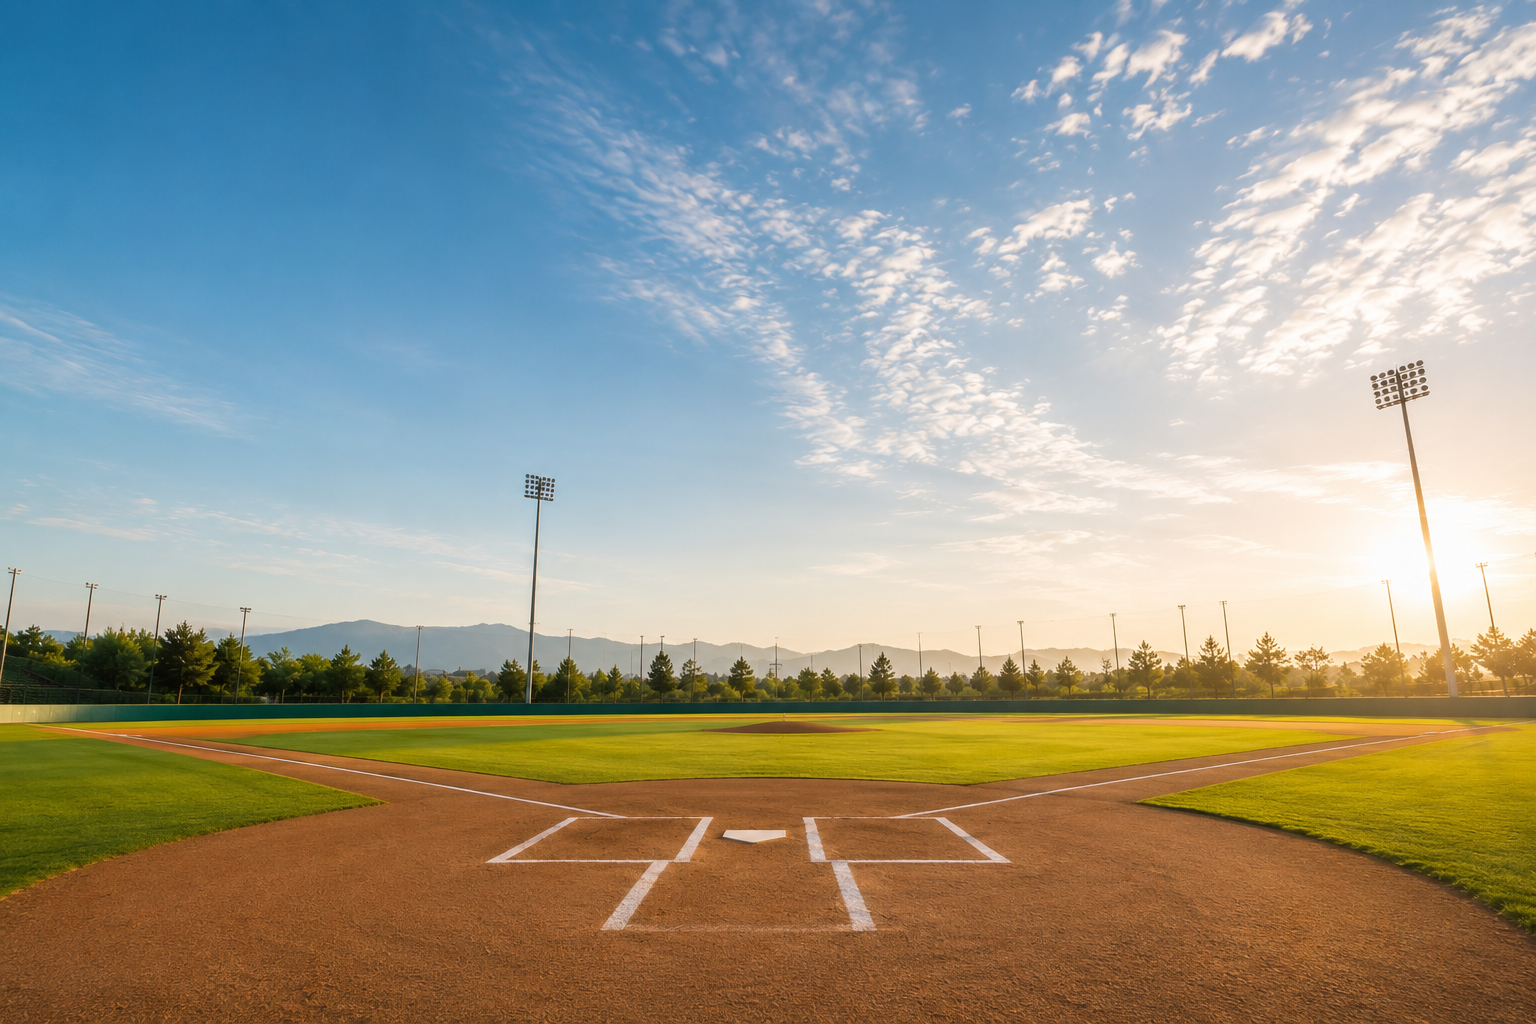
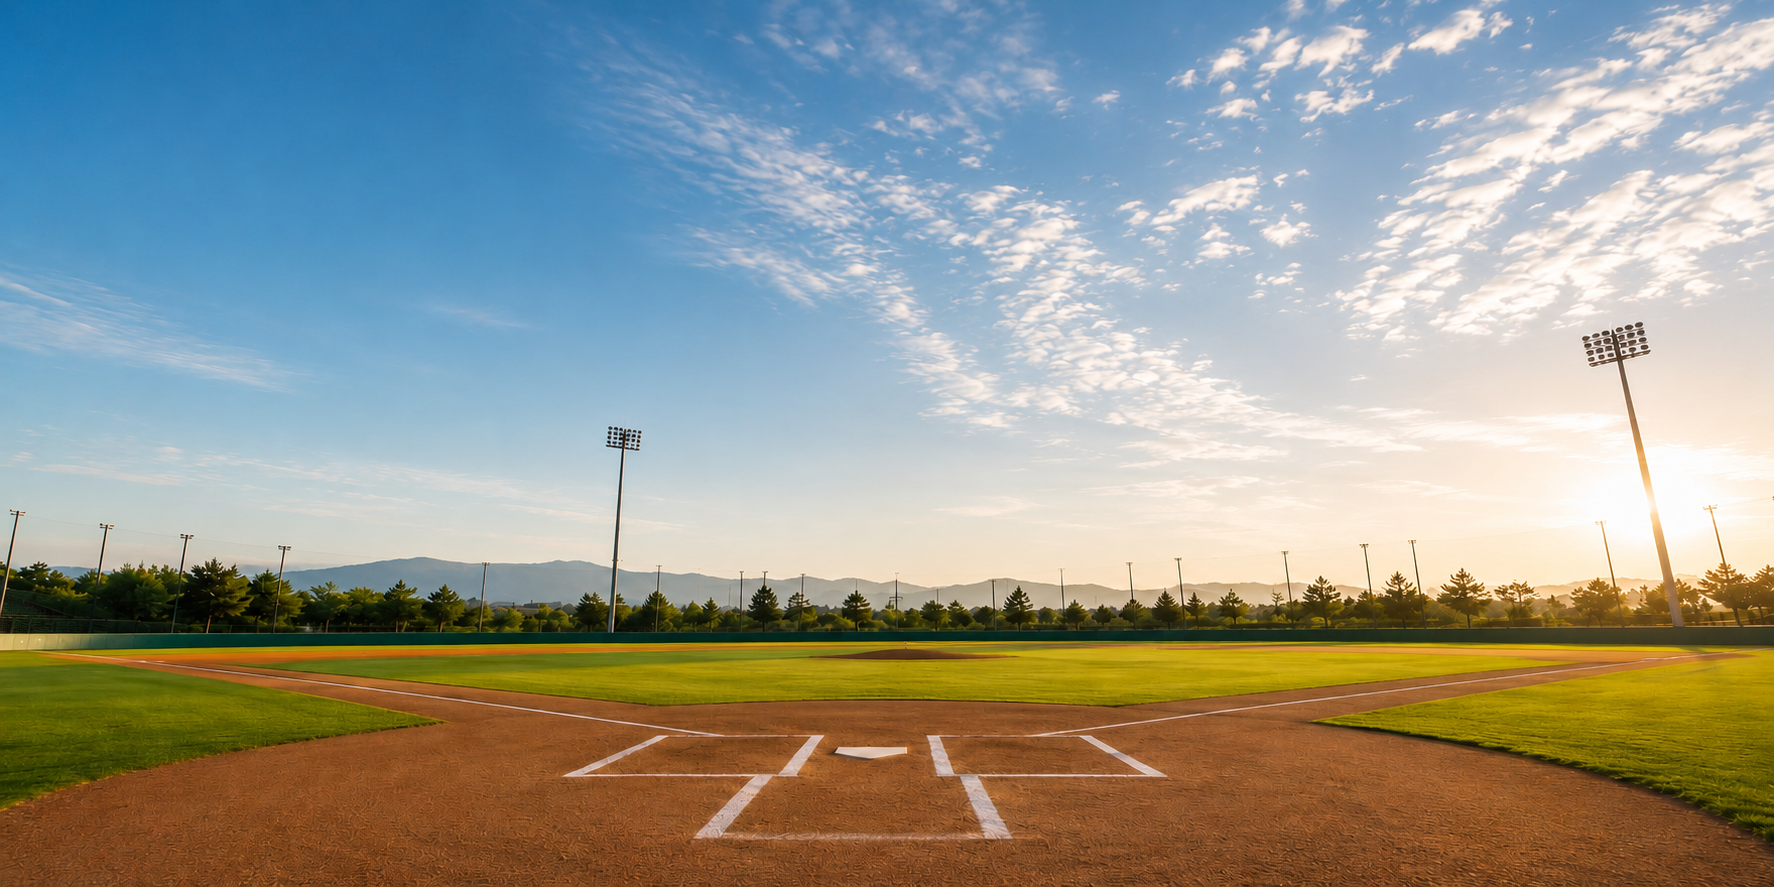
2026_06_02_v0.4.7 조민석 : 1. home.jsp 애니메이션 효과 추가 2. footer, headermenu 링크 작업 및 .css 공통 스타일 추가 적용 3. 홈페이지 로고 생성 및 적용

diff --git a/src/main/resources/static/css/common.css b/src/main/resources/static/css/common.css
@@ -1,5 +1,7 @@
 @charset "UTF-8";
-
+@import url('https://fonts.googleapis.com/css2?family=Oswald:wght@400;500;600&display=swap');
+@import url('https://fonts.googleapis.com/css2?family=Orbitron:wght@700&display=swap');
+/* ===== 기본 초기화 ===== */
 * {
     margin: 0;
     padding: 0;
@@ -22,8 +24,8 @@ ul, li { list-style: none; }
 /* ===== 네비바 ===== */
 .navbar {
     width: 100%;
-    background-color: #006400;
-    height: 56px;
+    background-color: #0d1f3c;
+    height: 80px;
     position: sticky;
     top: 0;
     z-index: 100;
@@ -38,31 +40,53 @@ ul, li { list-style: none; }
     justify-content: space-between;
 }
 
+/* 로고 + SBN 텍스트 묶음 */
 .navbar-brand {
-    color: #fff;
-    font-size: 22px;
-    font-weight: 900;
+    display: flex;
+    align-items: center;
+    color: #FFD700;
+    font-family: 'Orbitron', sans-serif;
+    font-size: 33px;
+    font-weight: 600;
     text-decoration: none;
-    letter-spacing: 2px;
+    letter-spacing: 8px;
+    padding: 15px;
+    transition: color 0.2s;
 }
 
+.navbar-brand:hover {
+    color: #ffe566;
+}
+
+/* 로고 이미지 */
+.navbar-logo {
+    height: 66px;
+    width: auto;
+    padding-top: 5px;
+    margin-right: -13px;
+}
+
+/* 메뉴 (선수, 팀, 리그, 게시판) */
 .navbar-menu {
     display: flex;
     gap: 36px;
-    list-style: none;
 }
 
 .navbar-menu a {
-    color: #fff;
+    font-family: 'Oswald', sans-serif;
+    color: #ffffff;
     text-decoration: none;
-    font-size: 15px;
+    font-size: 18px;
     font-weight: 500;
+    letter-spacing: 1px;
+    transition: color 0.2s;
 }
 
 .navbar-menu a:hover {
-    color: #F5F5DC;
+    color: #FFD700;
 }
 
+/* 로그인 / 로그아웃 */
 .navbar-auth {
     display: flex;
     gap: 12px;
@@ -70,35 +94,44 @@ ul, li { list-style: none; }
 }
 
 .navbar-auth span {
-    color: #F5F5DC;
-    font-size: 13px;
-}
-
-.navbar-auth a {
-    color: #fff;
-    text-decoration: none;
+    font-family: 'Oswald', sans-serif;
+    color: #c8d8e8;
     font-size: 14px;
 }
 
+.navbar-auth a {
+    font-family: 'Oswald', sans-serif;
+    color: #ffffff;
+    text-decoration: none;
+    font-size: 15px;
+    font-weight: 400;
+    transition: color 0.2s;
+}
+
+.navbar-auth a:hover {
+    color: #FFD700;
+}
+
 .navbar-auth .btn-login {
-    border: 1px solid #fff;
-    padding: 5px 16px;
+    border: 1px solid rgba(255, 255, 255, 0.6);
+    padding: 4px 16px;
     border-radius: 4px;
+    transition: background-color 0.2s;
 }
 
 .navbar-auth .btn-login:hover {
-    background-color: rgba(255, 255, 255, 0.15);
+    background-color: rgba(255, 255, 255, 0.12);
 }
 
 .navbar-auth .btn-mypage {
-    color: #F5F5DC;
+    color: #c8d8e8;
 }
 
 
 /* ===== 푸터 ===== */
 .footer {
     width: 100%;
-    background-color: #006400;
+    background-color: #0d1f3c;
     padding: 24px 0;
     margin-top: 50px;
 }
@@ -107,7 +140,7 @@ ul, li { list-style: none; }
     width: 80%;
     margin: 0 auto;
     text-align: center;
-    color: rgba(255, 255, 255, 0.8);
+    color: rgba(255, 255, 255, 0.7);
     font-size: 13px;
     line-height: 1.8;
 }